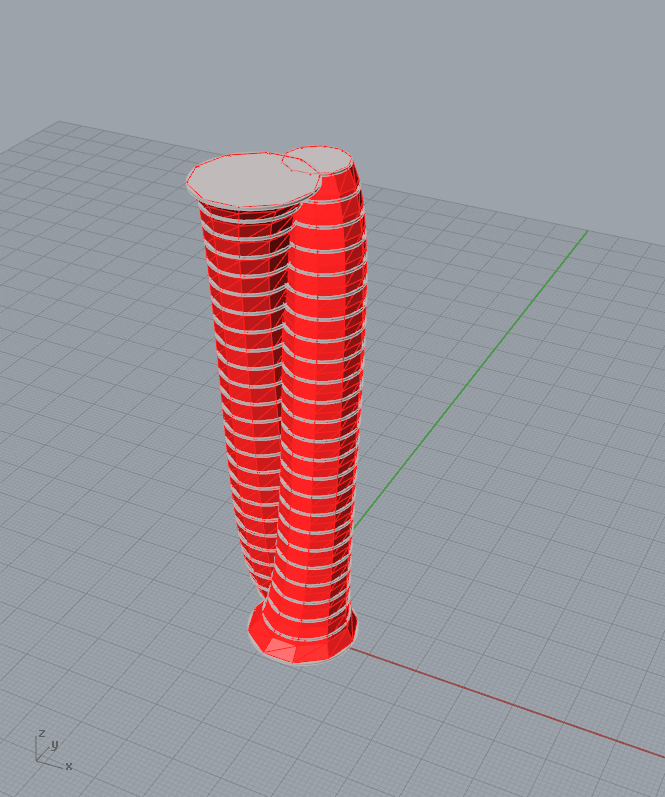
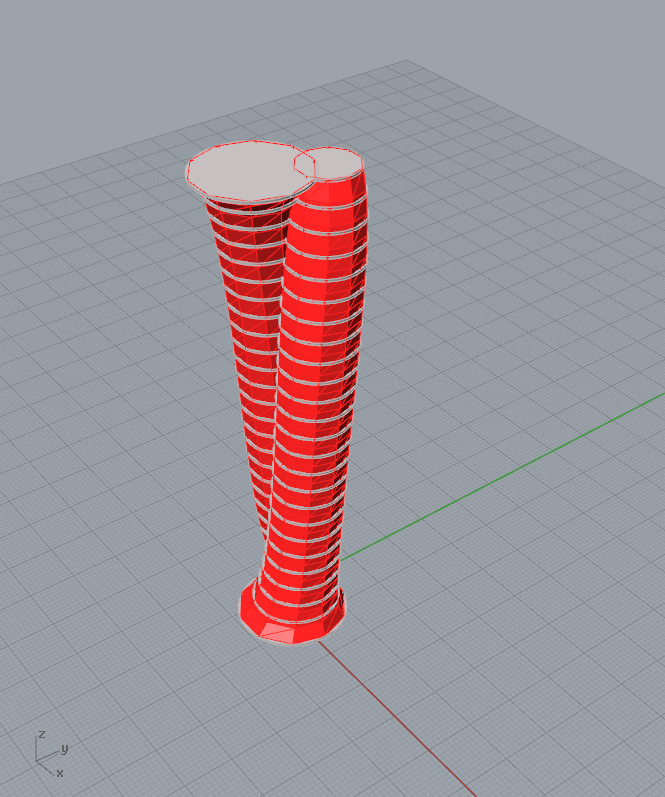
Parametric Towers from connected circles

diff --git a/Parametric_Towers_from_connected_circles/README.md b/Parametric_Towers_from_connected_circles/README.md
@@ -1,10 +1,12 @@
 ### Description 
-This shows how a parametric pipe can be made from two connected circles and can be manipulated via graphmaper.
+This shows how a parametric tower can be made from two connected circles and can be manipulated via graphmapers.
 
 This file has been submitted by [RanjSiwaily](https://github.com/RanjSiwaily)
 
 [Check out this example on Hydra!](http://hydrashare.github.io/hydra/viewer?owner=RanjSiwaily&description=Parametric_Towers_from_connected_circles)
-### Version 01
+### Version 02
+ Version 01
+
 ### Tags 
 circles, tower, rotation, graph mapper, panels
 
